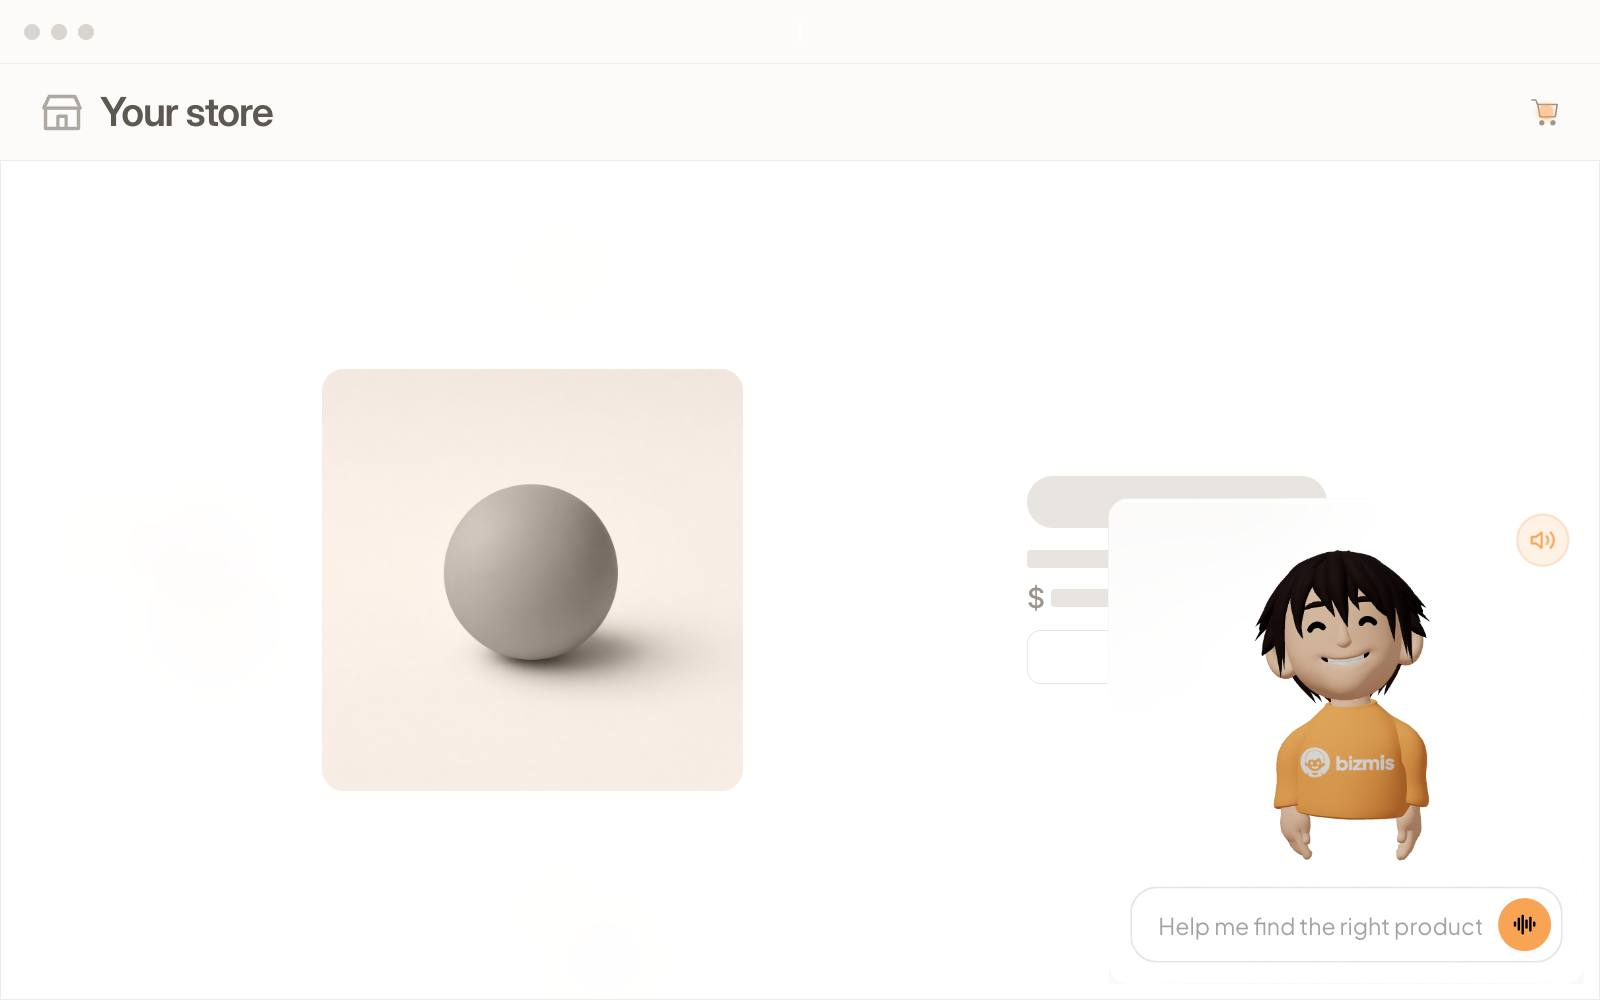
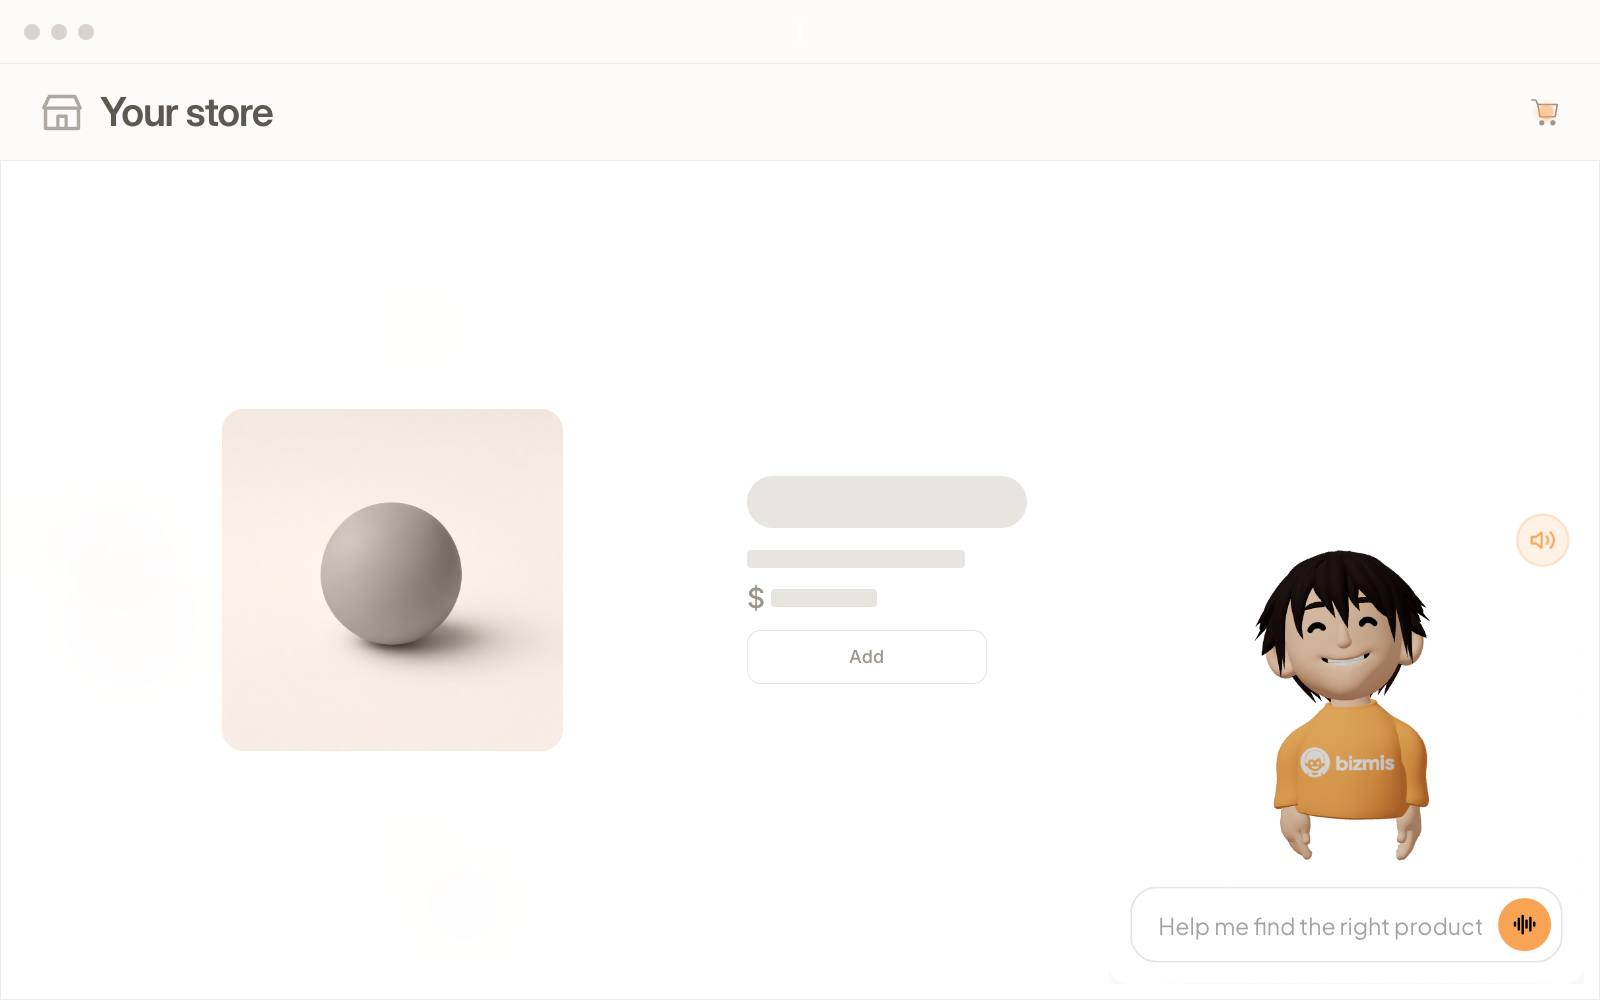
BIZ-411 Keep the desktop product details clear of the corner widget.
The title, price, description, and add button sit beside the photo. The bottom right stays open for the Bizmis card.

Changed region(s): [[0.125, 0.372, 0.8438, 0.806], [0.5312, 0.651, 0.5625, 0.682]]

diff --git a/public/promo/promo-ad.css b/public/promo/promo-ad.css
@@ -9719,6 +9719,14 @@ html.is-promo-clip.is-clip-moment.is-clip-tablet .bizmis-viewport-portal-root {
   transform-origin: bottom right !important;
 }
 
+.promo-opening.is-clip-moment.is-clip-desktop.is-pitch-cards .promo-moments__board.is-pose-doubt .promo-moments__card.is-pick,
+.promo-opening.is-clip-moment.is-clip-desktop.is-pitch-cards .promo-moments__board.is-pose-close .promo-moments__card.is-pick,
+.promo-opening.is-pitch-cards.is-moments .promo-opening__store.is-desktop .promo-moments__board.is-pose-doubt .promo-moments__card.is-pick,
+.promo-opening.is-pitch-cards.is-moments .promo-opening__store.is-desktop .promo-moments__board.is-pose-close .promo-moments__card.is-pick {
+  --widget-lane: 520px;
+  grid-template-columns: minmax(0, 1fr) minmax(220px, 280px) var(--widget-lane);
+}
+
 .promo-opening.is-clip .promo-moments__board .promo-moments__card {
   background: color-mix(in srgb, var(--ad-white) 96%, var(--ad-field));
   border: 1px solid color-mix(in srgb, var(--ad-ink) 9%, transparent);

diff --git a/public/promo/ad-1-script.md b/public/promo/ad-1-script.md
@@ -84,7 +84,7 @@ Desktop, the same grid. The shopper types: "Looking for something light I can ta
 
 **Clerk:** "Light and easy to carry, here are the three that fit. This one's the best of them."
 
-While he speaks, the grid narrows to three, then the pick's page opens. Question marks travel one circle around the product photo, clear of the picture, then puff into a soft Bizmis orange smoke and disappear. Orange veil, white check, "SOLD".
+While he speaks, the grid narrows to three, then the pick's page opens. The title, price, description, and add button sit beside the photo, clear of the widget in the bottom right. Question marks travel one circle around the product photo, clear of the picture, then puff into a soft Bizmis orange smoke and disappear. Orange veil, white check, "SOLD".
 
 **VO** `narrows`: "It narrows. It recommends."
 
